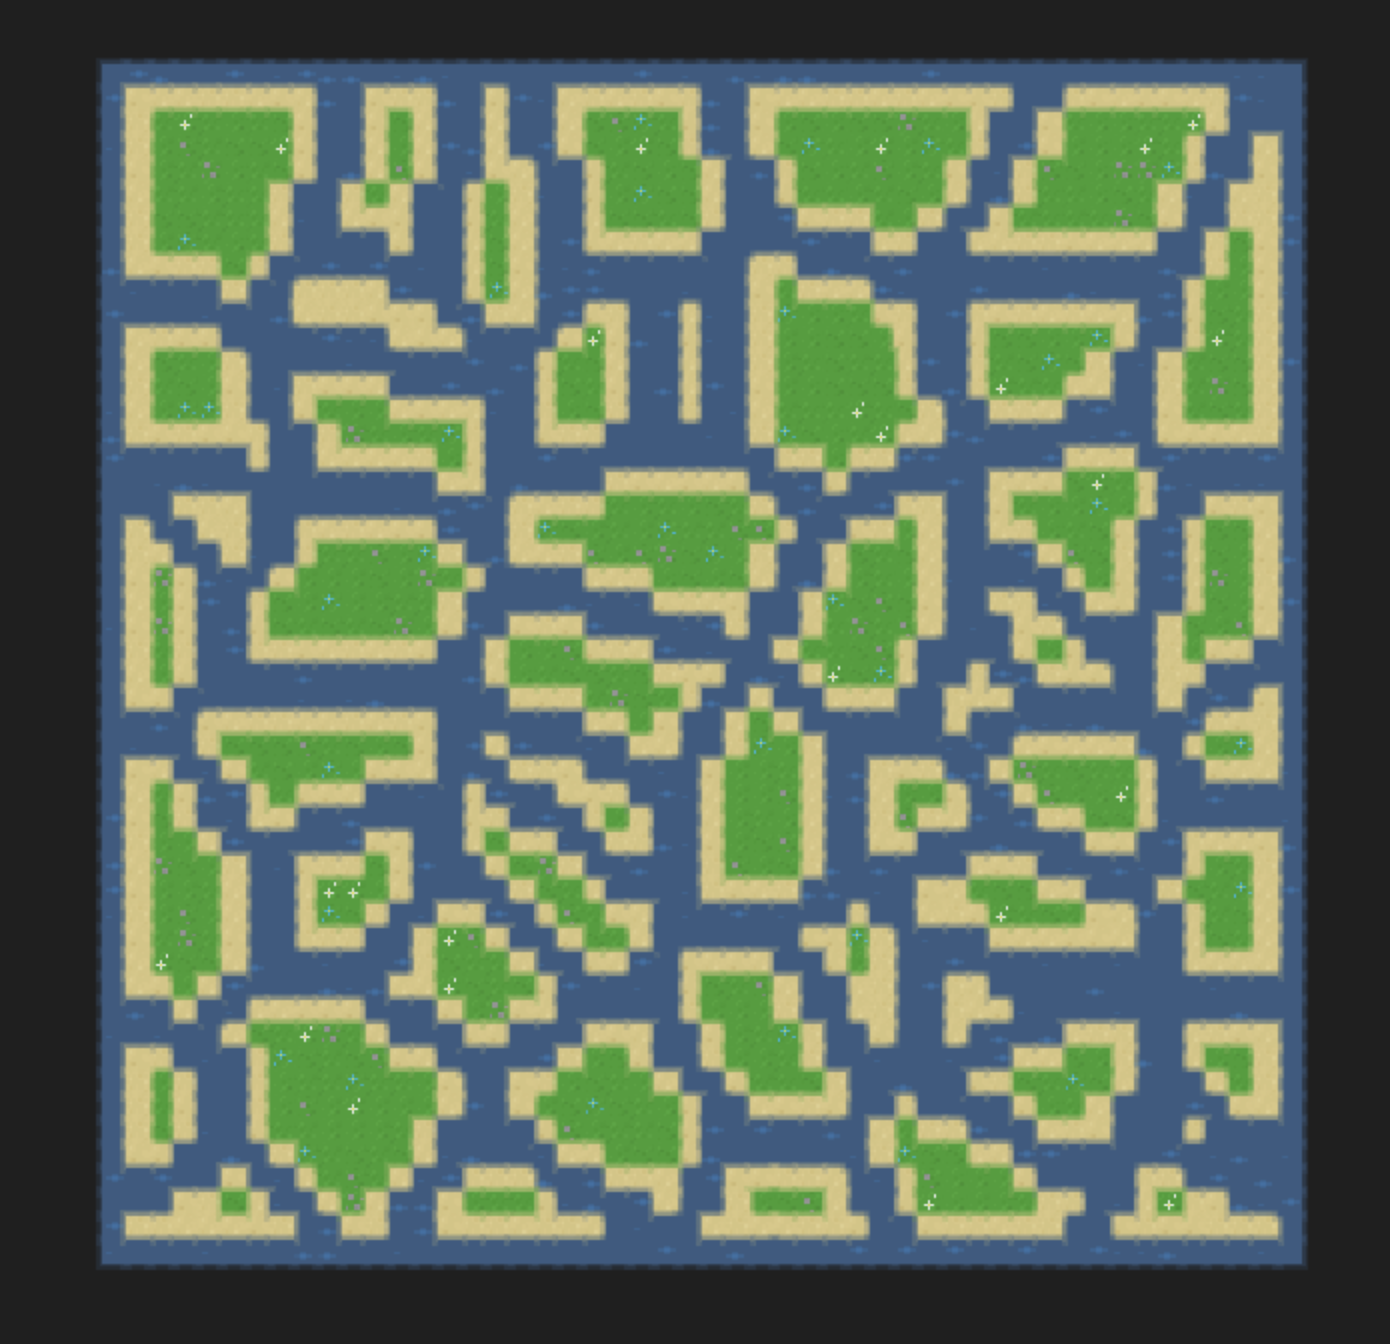
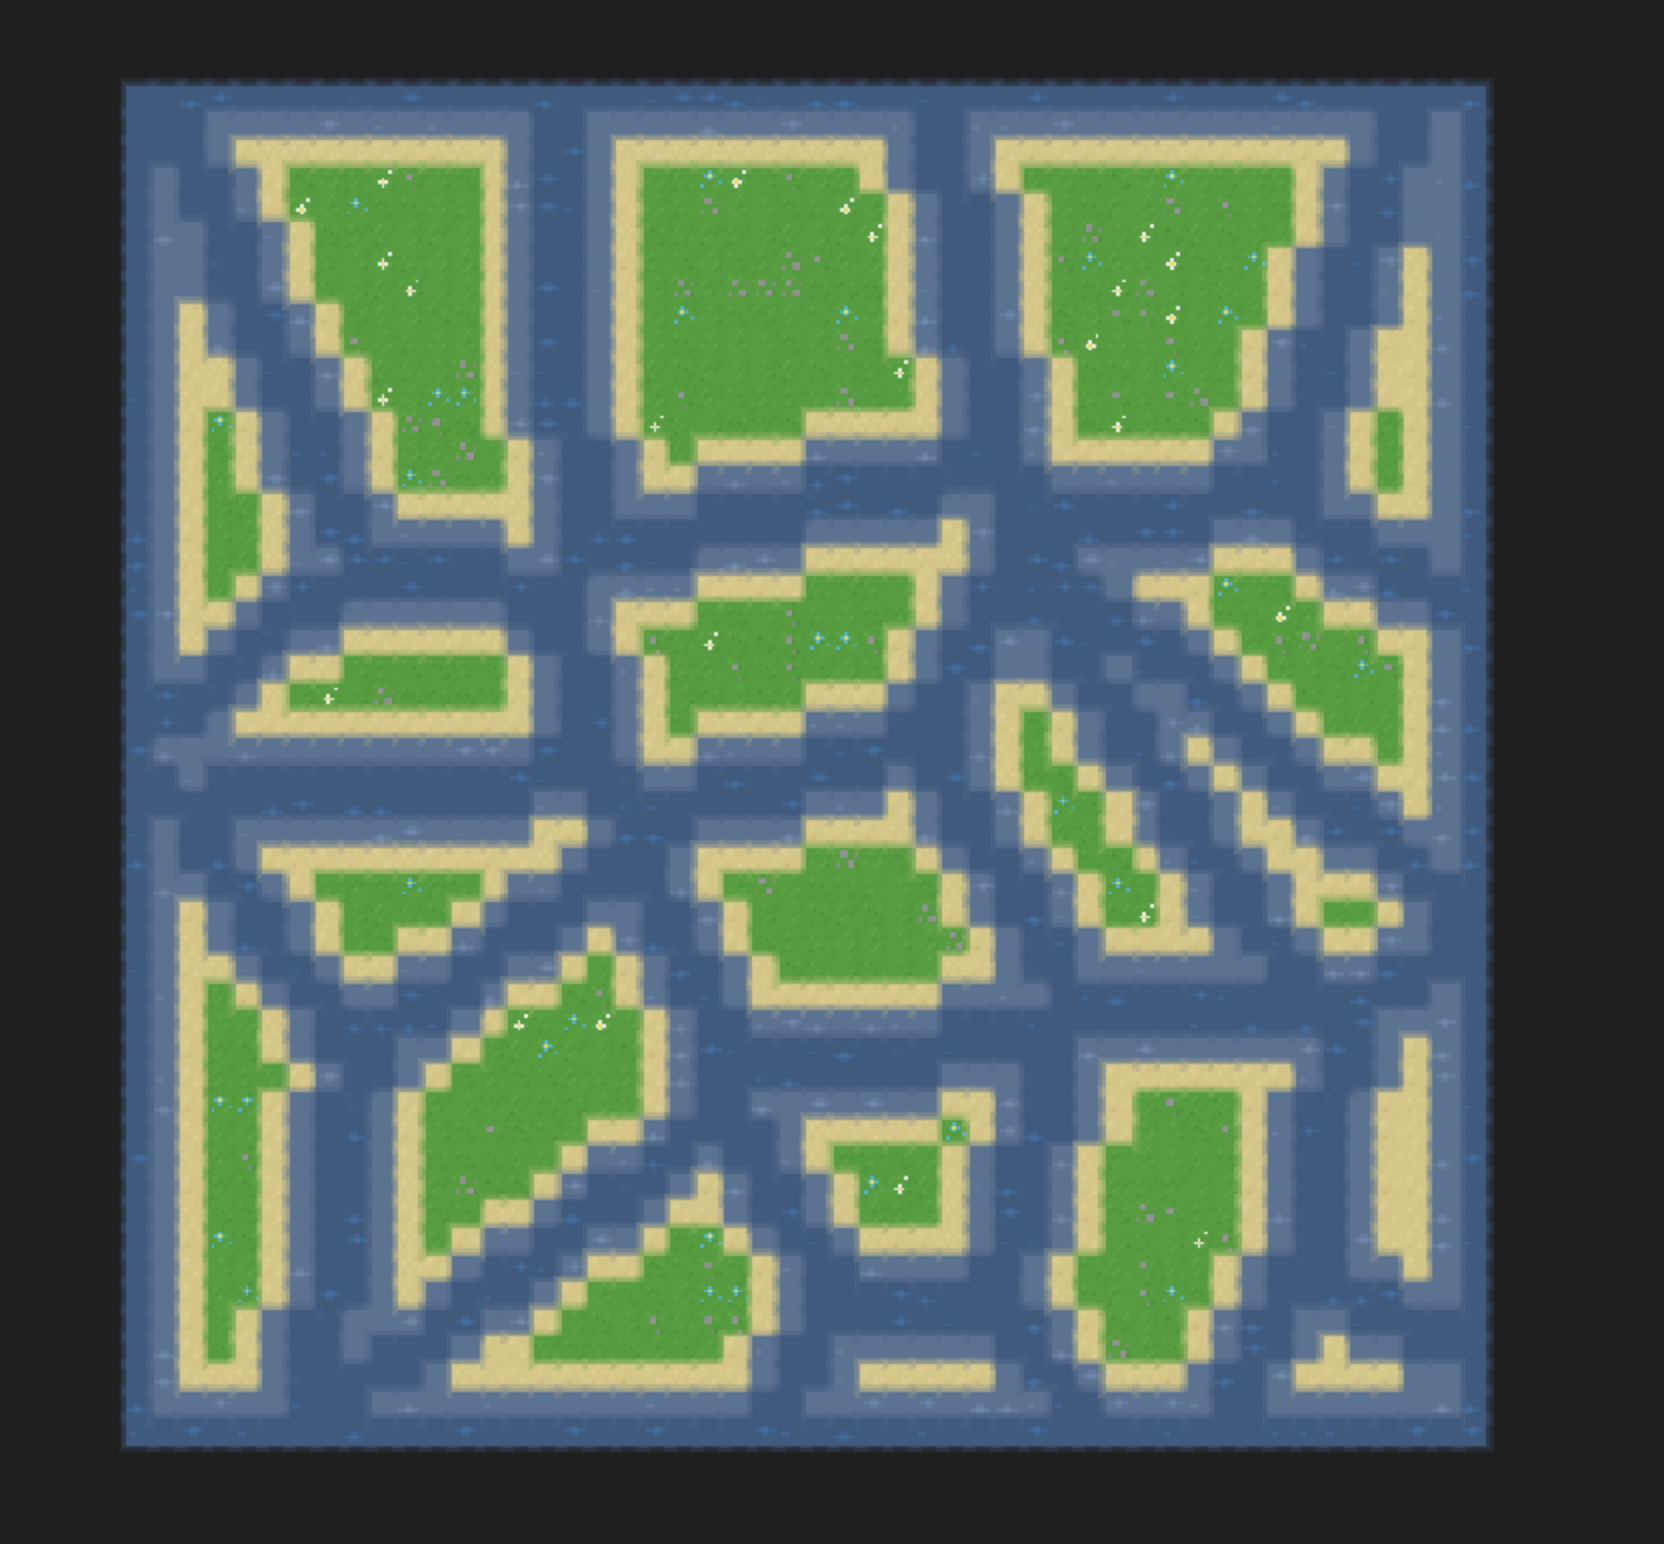
Atlas finished

diff --git a/writing/mapgen/index.html b/writing/mapgen/index.html
@@ -45,6 +45,10 @@
         </ul>
         <br>
         Since maps are usually pretty big, I decided to use Go for this project. I was already hitting some issues with Javascript in my <a href="/gallery/terrain">terrain</a> project at ~1/10 the size I wanted to generate. The package itself does all the math delaunay stuff without external libraries (for practice), and lets users build their own maps using "building block" biomes.
+        <ul>
+            <li><a href="https://github.com/studio-imperium/atlas">Github</a></li>
+            <li><a href="https://pkg.go.dev/github.com/studio-imperium/atlas?utm_source=godoc">Go pkg</a></li>
+        </ul>
         <br>
         <br>
         <h1>Modifier</h1>
@@ -111,10 +115,10 @@ world.Infect(biomes, decay)
                 <td>
                     <pre><code>// Fill every tile in a cell with some value
 biome1 := atlas.NewBiome(
-    atlas.NewFill(1),
+    atlas.NewFill(WATER),
 )
 biome2 := atlas.NewBiome(
-    atlas.NewFill(1),
+    atlas.NewFill(DEEP_WATER),
 )
 biomes := []atlas.Biome{
     biome1,
@@ -208,9 +212,11 @@ world.Infect(biomes, decay)
         <img width="500px" src="./map9.png">
         <a href="http://100.28.2.231:4000/">live demo</a>
         <pre><code>biome2 := atlas.NewBiome(
-    atlas.NewFill(GRASS)
-    atlas.NewBorder(DEEP_WATER)
-    atlas.NewSelectiveBorder(SAND, GRASS)
+    atlas.NewFill(GRASS),
+    atlas.NewSelectiveBorder(WATER,GRASS),
+    atlas.NewSelectiveBorder(WATER,GRASS),
+    atlas.NewSelectiveBorder(SAND,GRASS),
+    atlas.NewBorder(DEEPWATER),
 )
 biomes := []atlas.Biome{biome2}
 
